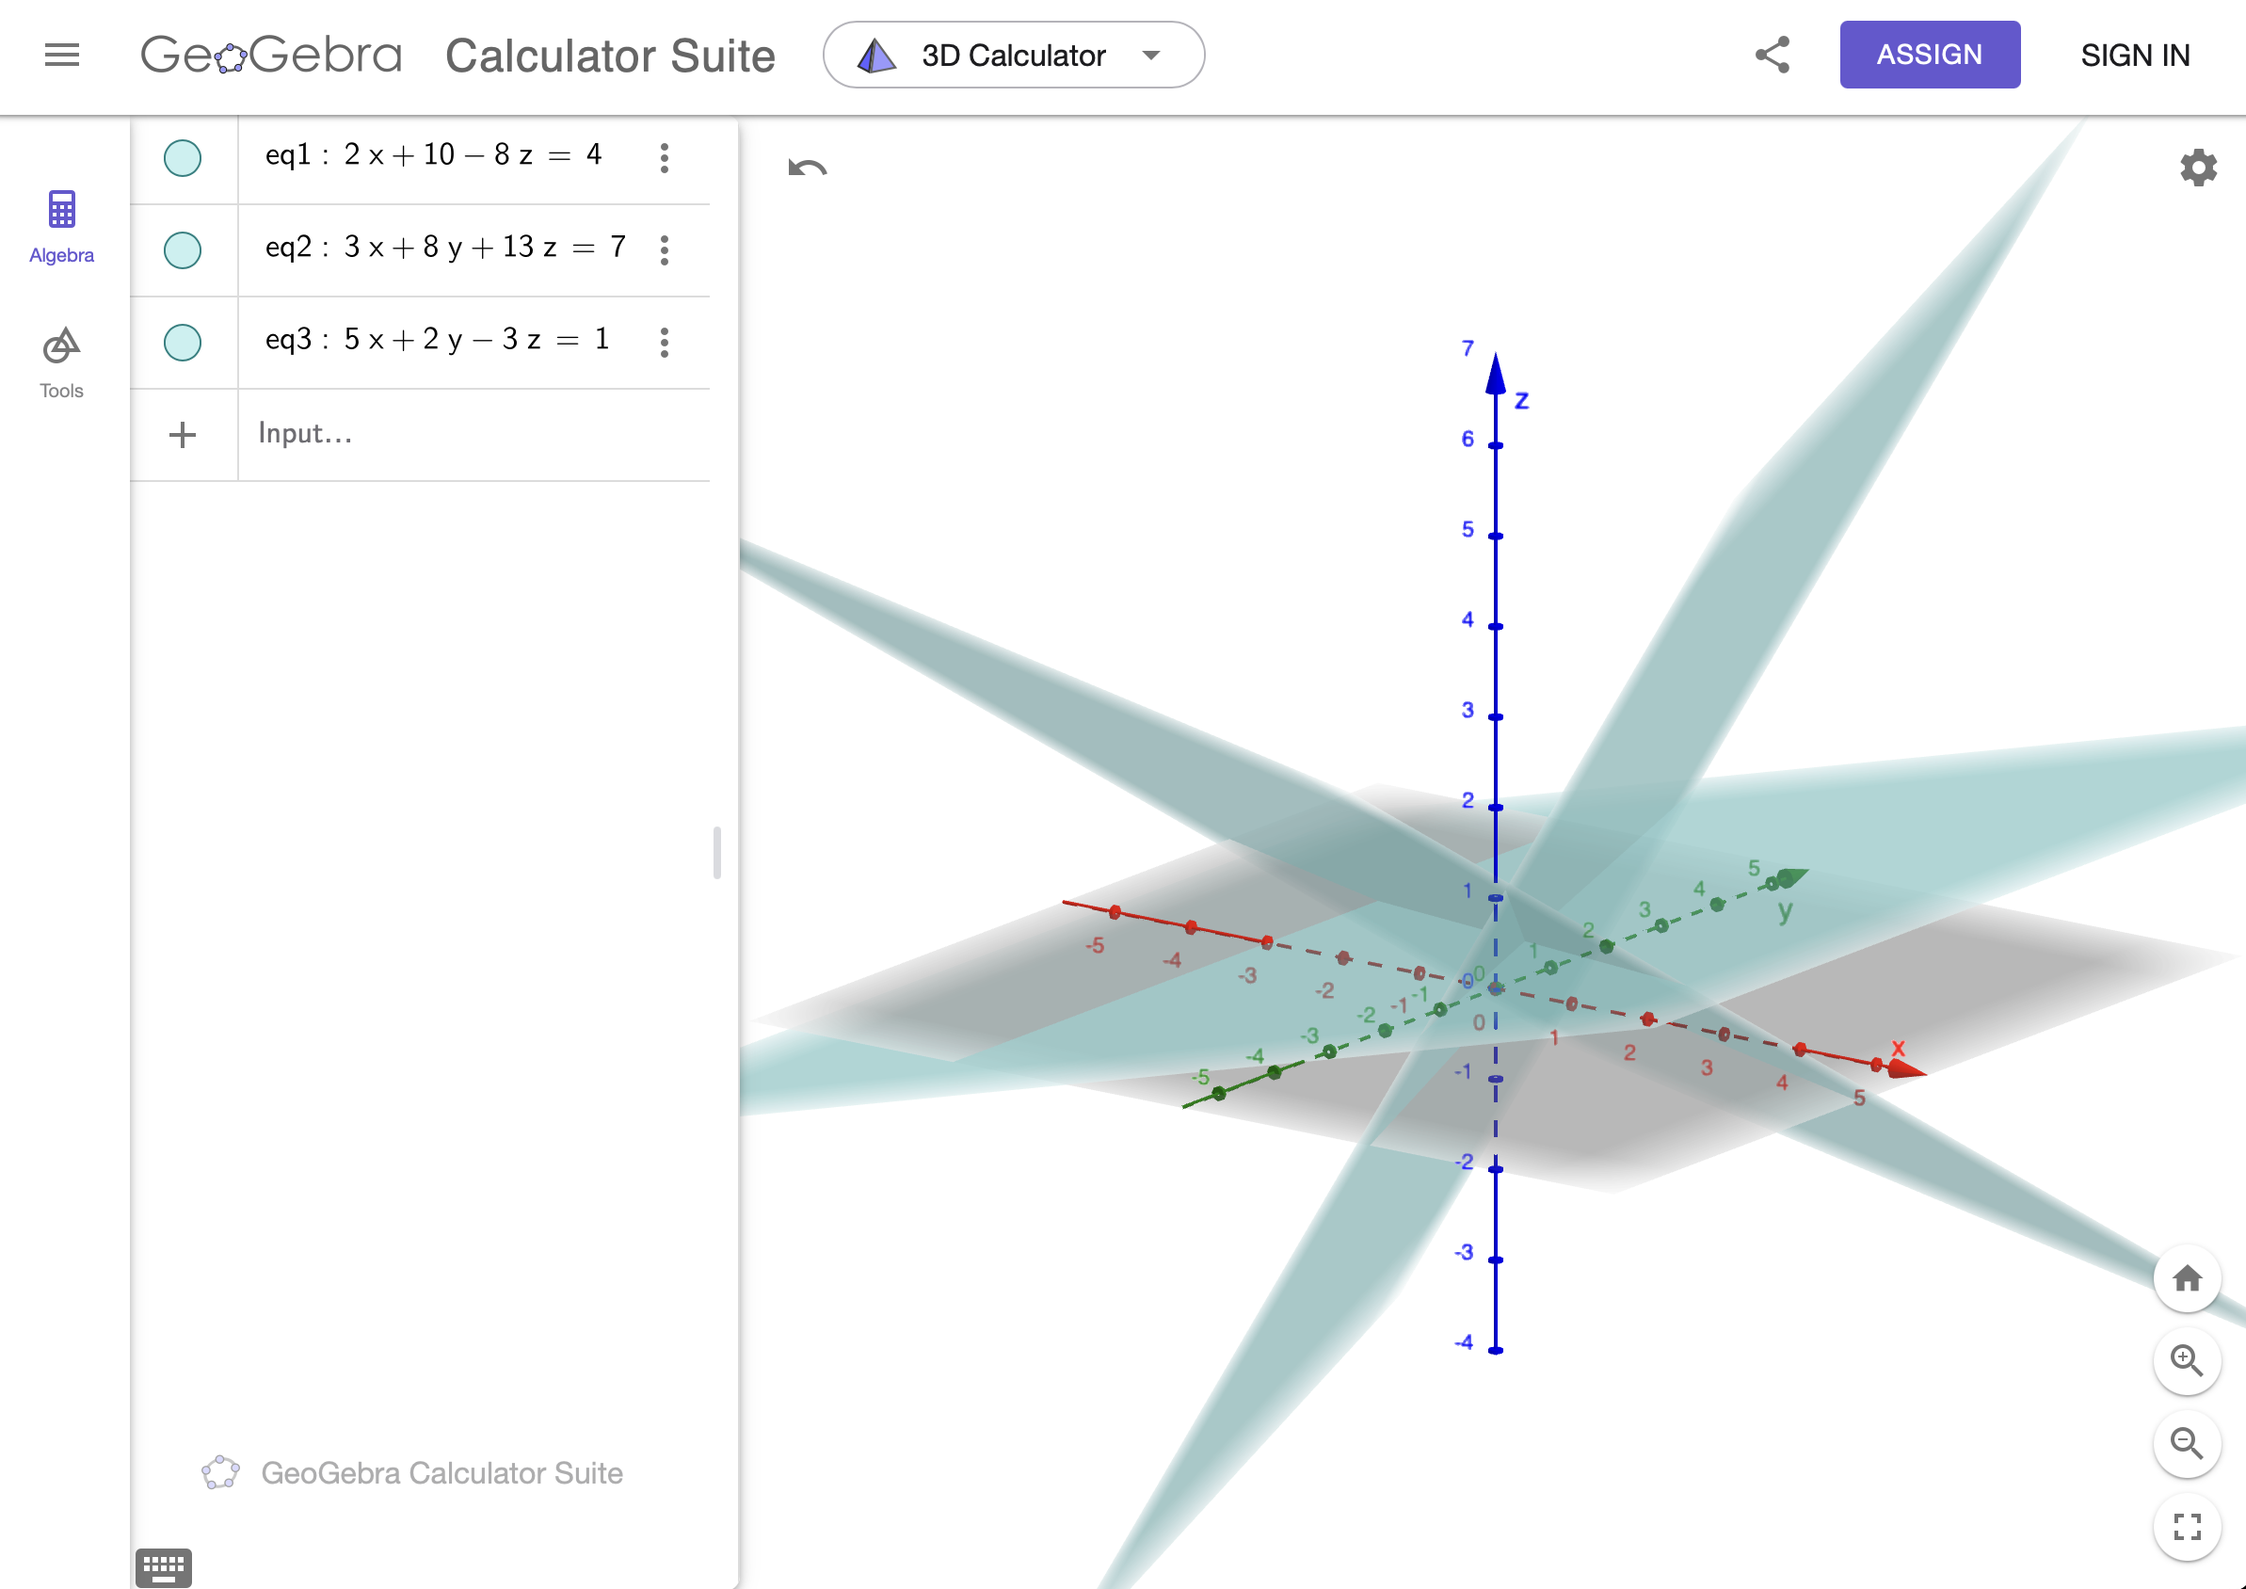
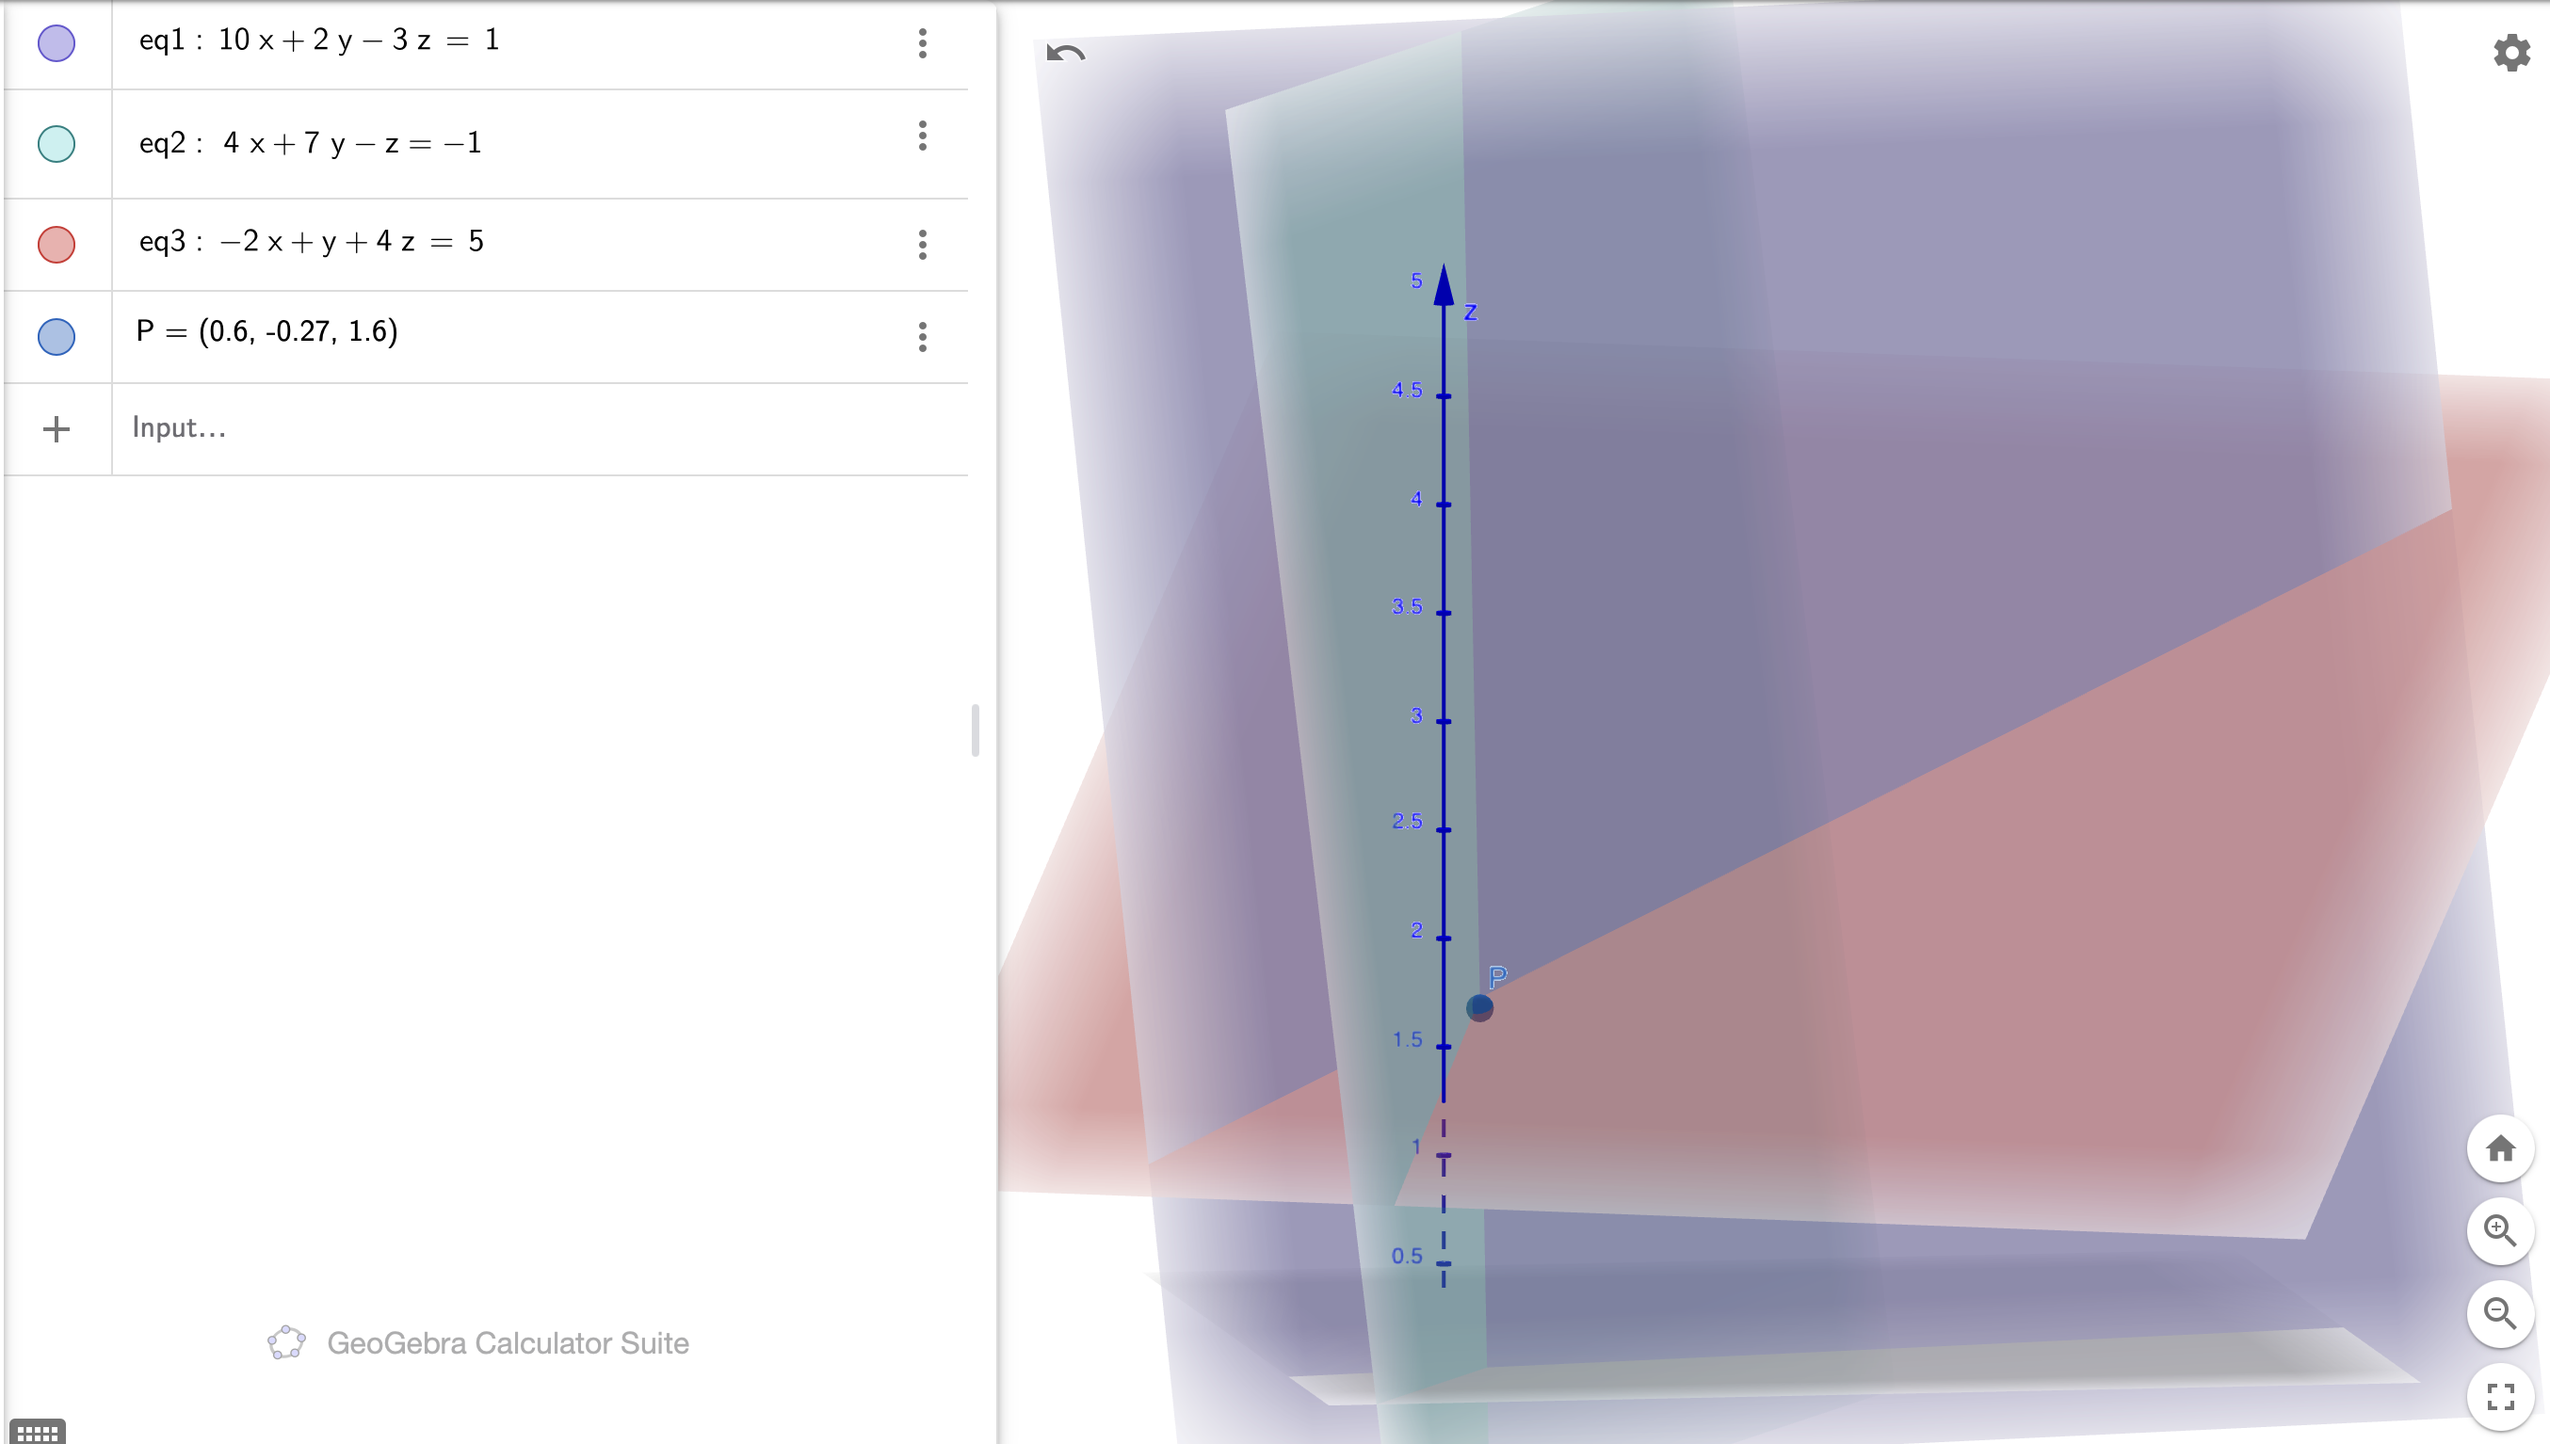
Updated Documentation

diff --git a/src/Main.java b/src/Main.java
@@ -1,29 +1,24 @@
+import java.util.Arrays;
+
 public class Main {
     public static void main(String[] args) {
-        // Define the system parameters
+        // Given system: Ax = b
         double[][] A = {
-                {4, 1, 1},
-                {1, 3, 1},
-                {1, 1, 4}
+                {10, 2, -3},
+                {4, 7, -1},
+                {-2, 1, 4}
         };
-        double[] b = {5, 5, 6};
-        double[] xInicial = {0, 0, 0};
-        double tolerancia = 1e-6;
-        int maxIteraciones = 100;
-        int numHilos = 4;
+        double[] b = {1, -1, 5};
+        double[] x0 = {0, 0, 0}; // Initial guess
+        double tol = 1e-6;
+        int maxIter = 100;
 
-        // Create and solve using JacobiConcurrente
-        JacobiConcurrente jacobi = new JacobiConcurrente(A, b, xInicial, tolerancia, maxIteraciones, numHilos);
-        double[] solucion = jacobi.resolver();
+        double[] solution = JacobiMethod.jacobi(A, b, x0, tol, maxIter);
 
-        // Print the solution
-        if (solucion != null) {
-            System.out.println("Solución encontrada:");
-            for (int i = 0; i < solucion.length; i++) {
-                System.out.println("x[" + i + "] = " + solucion[i]);
-            }
+        if (solution != null) {
+            System.out.println("Solution: " + Arrays.toString(solution));
         } else {
-            System.out.println("No se pudo encontrar una solución.");
+            System.out.println("Method did not converge within the maximum iterations.");
         }
     }
 }

diff --git a/src/JacobiMethod.java b/src/JacobiMethod.java
@@ -1,2 +1,39 @@
-package PACKAGE_NAME;public class JacobiMethod {
+import java.util.Arrays;
+
+public class JacobiMethod {
+
+    public static double[] jacobi(double[][] A, double[] b, double[] x0, double tol, int maxIter) {
+        int n = A.length;
+        double[] x = new double[n];
+        double[] xOld = Arrays.copyOf(x0, n);
+
+        for (int k = 0; k < maxIter; k++) {
+            for (int i = 0; i < n; i++) {
+                double sum = 0.0;
+                for (int j = 0; j < n; j++) {
+                    if (i != j) {
+                        sum += A[i][j] * xOld[j];
+                    }
+                }
+                x[i] = (b[i] - sum) / A[i][i];
+            }
+
+            // Check for convergence
+            if (converged(x, xOld, tol)) {
+                return x;
+            }
+
+            // Update old values
+            xOld = Arrays.copyOf(x, n);
+        }
+        return null; // Did not converge
+    }
+
+    private static boolean converged(double[] x, double[] xOld, double tol) {
+        double norm = 0.0;
+        for (int i = 0; i < x.length; i++) {
+            norm += Math.pow(x[i] - xOld[i], 2);
+        }
+        return Math.sqrt(norm) < tol;
+    }
 }
